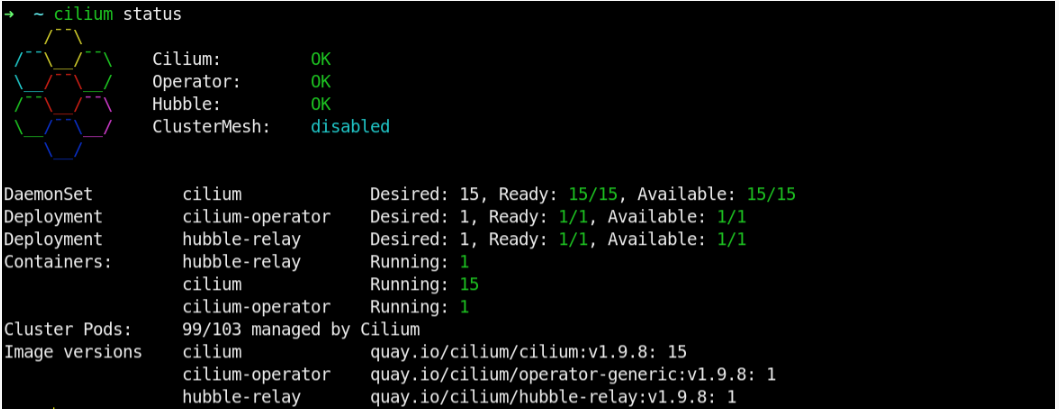
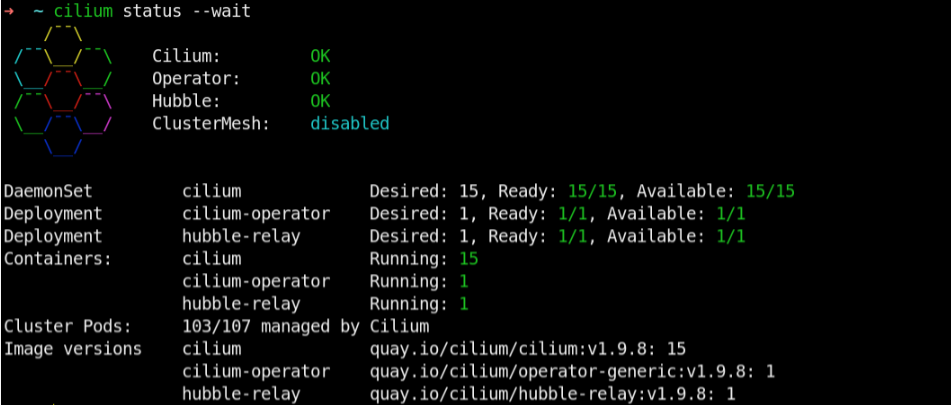
modified devops help docs

diff --git a/docs_sample/accuknox-onprem/agents-install.md b/docs_sample/accuknox-onprem/agents-install.md
@@ -1,8 +1,8 @@
 ### Note
 
-1. Onboarding the cluster to the accuknox UI (Eg. CWPP cluster).
+Step 1 Onboarding the cluster to the accuknox UI (Eg. CWPP cluster).
 
-2. Fetch the cluster id and workload id for the below agents installation.
+Step 2 Fetch the cluster id and workload id for the below agents installation.
 
 ![Alt](../images/onboard.png)
 
@@ -39,6 +39,8 @@ helm search repo accuknox-onprem-agents
 
 ## Installation
 
+## Note 1.10.5 having crashingloopback issues, so we are using 1.9.8
+
 ```sh
 curl -L --remote-name-all https://github.com/cilium/cilium-cli/releases/latest/download/cilium-linux-amd64.tar.gz{,.sha256sum} sha256sum --check cilium-linux-amd64.tar.gz.sha256sum
 
@@ -50,19 +52,19 @@ cilium install --version 1.9.8
 
 cilium hubble enable
 ```
-## Validate the ilium Installation
+## Validate the cilium Installation
 
 To validate that Cilium has been properly installed, you can run
 
 ```sh
-cilium status
+cilium status --wait
 ```
 
 ![Alt](../images/cilium-status.png)
 
 ![Alt](../images/cilium-pods.png)
 
-Refer official site: https://docs.cilium.io/en/stable/gettingstarted/k8s-install-default/ 
+Refer official site: [https://docs.cilium.io/en/stable/gettingstarted/k8s-install-default/](https://docs.cilium.io/en/stable/gettingstarted/k8s-install-default/) 
 
 ## kArmor
 kArmor is a CLI client to help manage KubeArmor.
@@ -83,16 +85,13 @@ kubectl get pods -n kubesystem | grep kubearmor
 ```
 ![Alt](../kubearmor.png)
 
-Refer official site: https://www.accuknox.com/kubearmor/
+Refer official site: [https://www.accuknox.com/kubearmor/](https://www.accuknox.com/kubearmor/)
 
 ### Shared-informer-agent
-
-Step 1 :
 
 ```sh
 kubectl create ns accuknox-agents
 ```
-Step 2 : 
 
 ```sh
 helm upgrade --install accuknox-shared-informer-agent shared-informer-agent-chart-1.0.1.tgz -n accuknox-agents
@@ -124,12 +123,9 @@ helm upgrade --install accuknox-feeder-service feeder-service-1.0.1.tgz -n accuk
 helm upgrade --install accuknox-knox-containersec knox-containersec-chart-1.0.1.tgz -n accuknox-agents
 ```
 
-
 ## S3-audit-reporter
 
 ```sh
 kubectl create ns accuknox-s3-audit-reporter-agent
 helm upgrade --install accuknox-s3-audit-reporter-agent s3-audit-reporter-charts-1.0.1.tgz -n accuknox-s3-audit-reporter-agent
 ```
-
-
